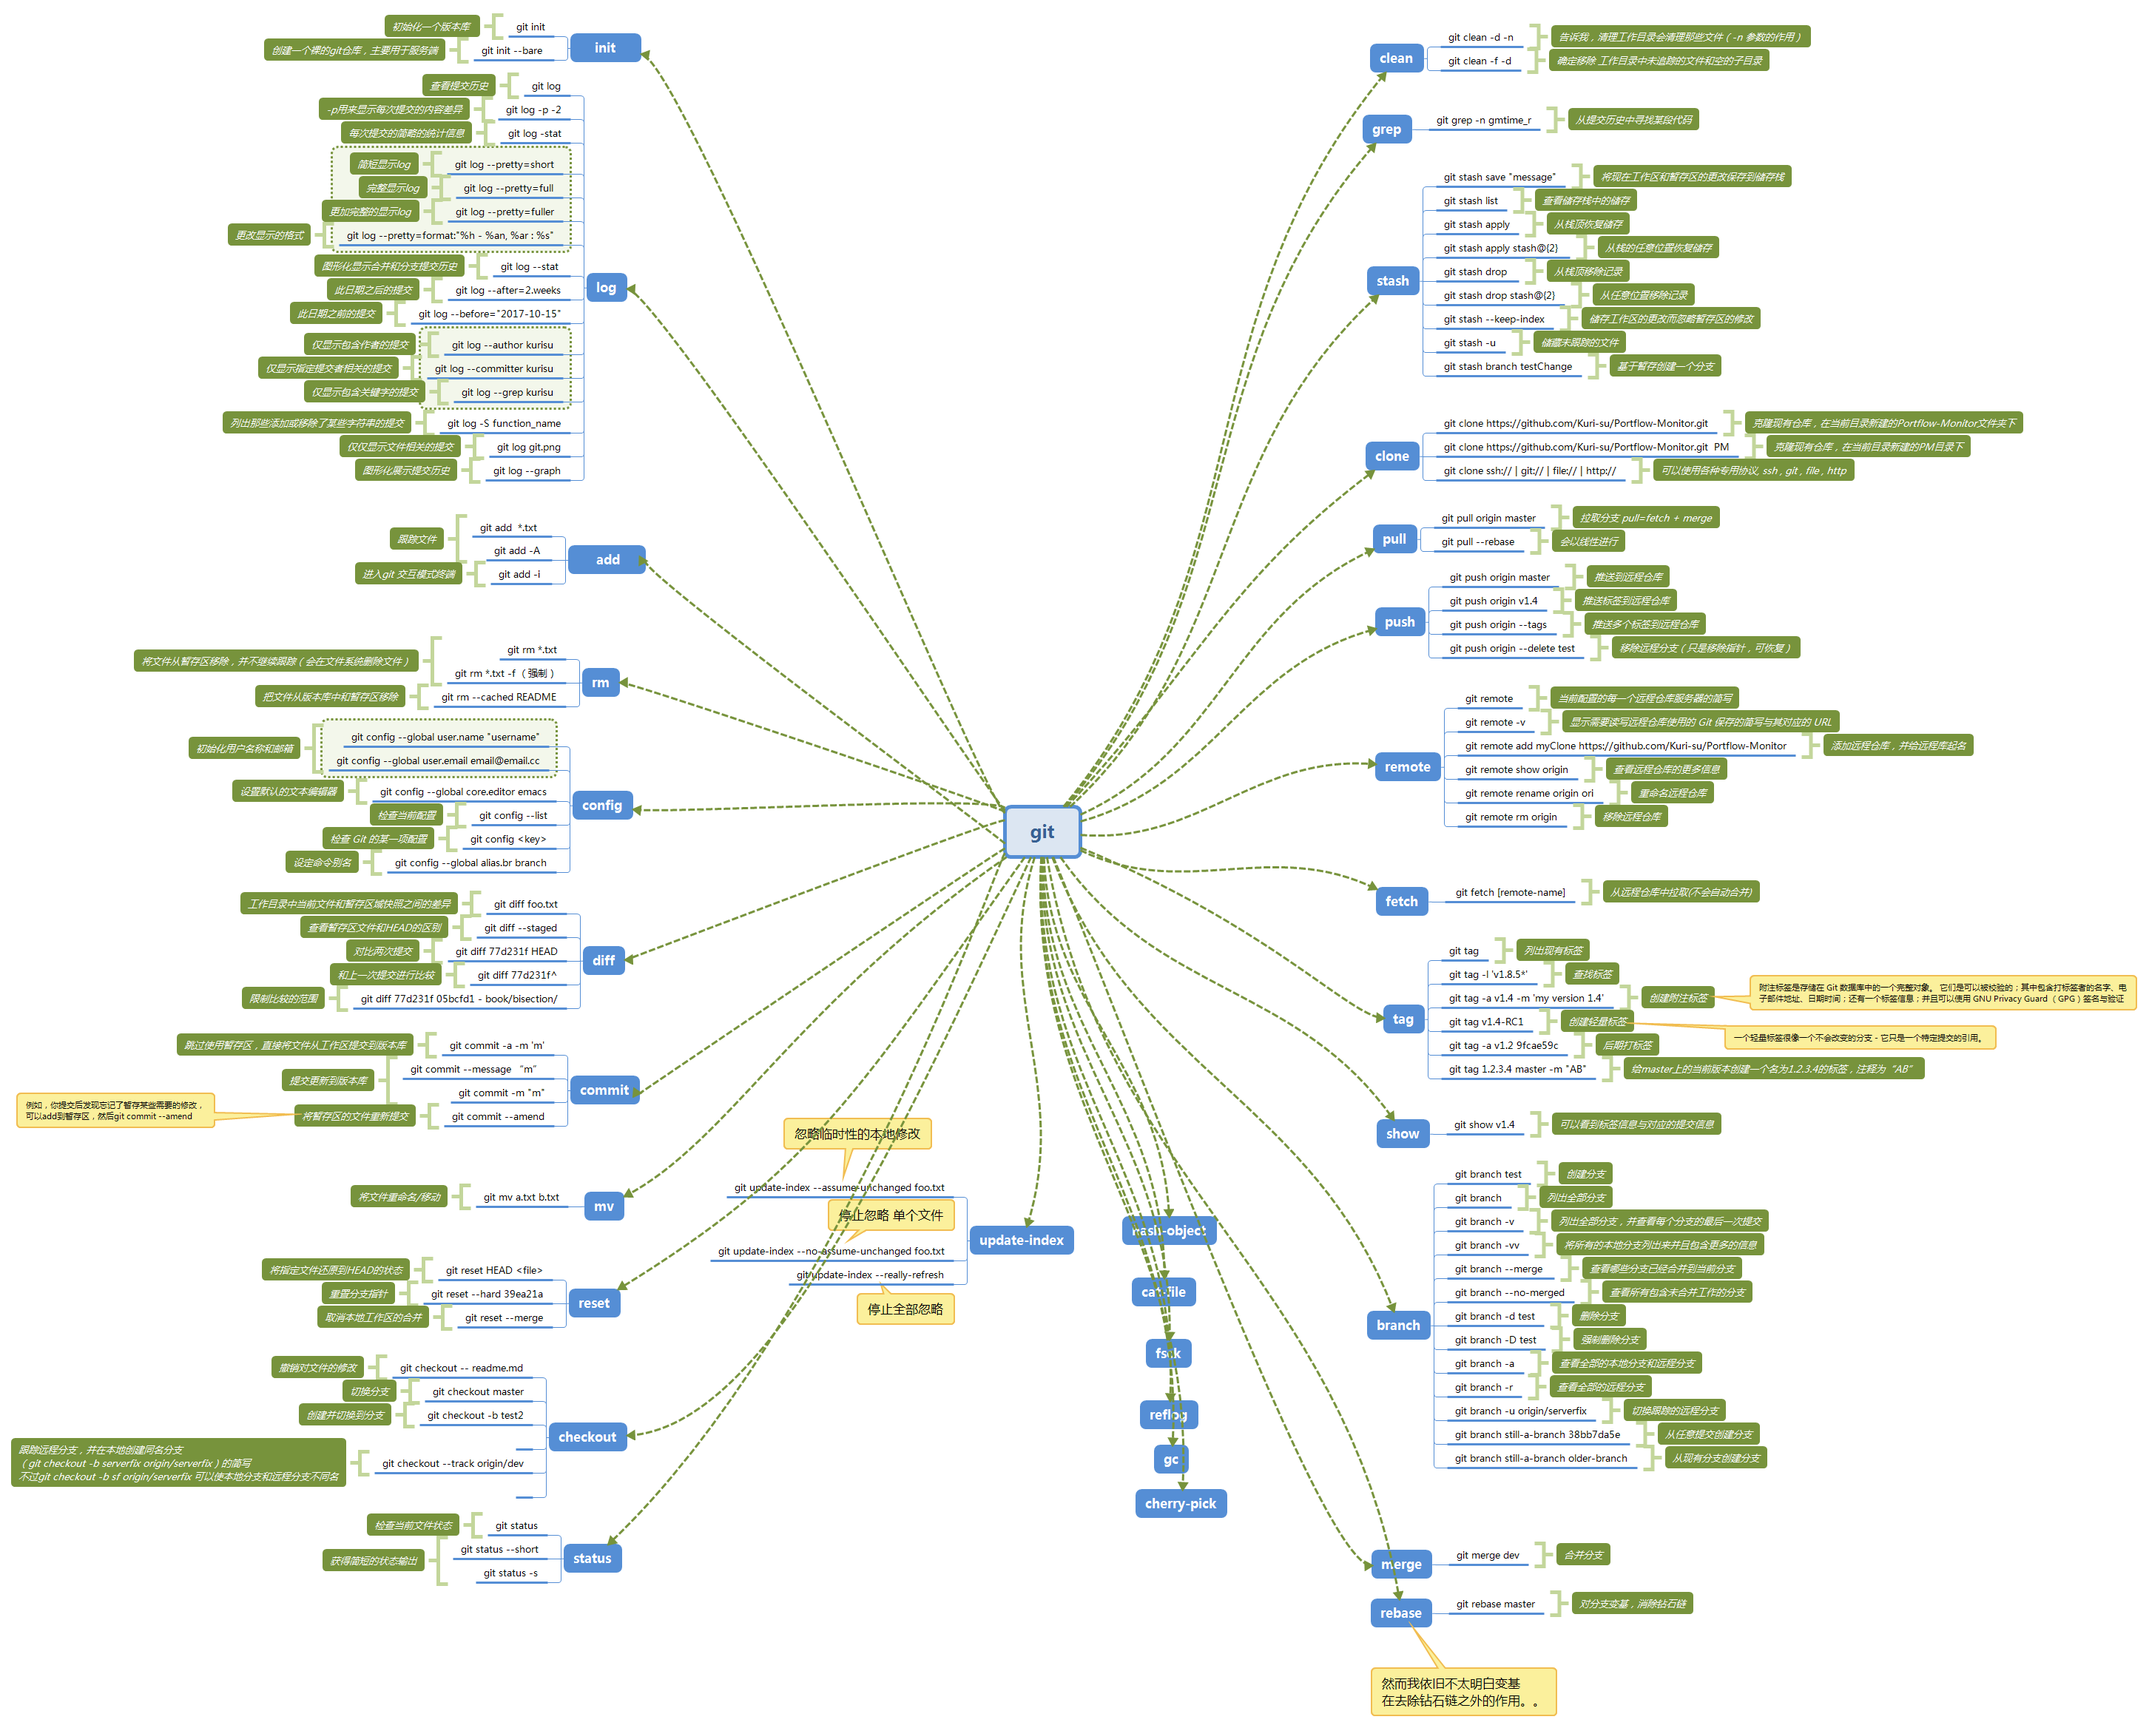
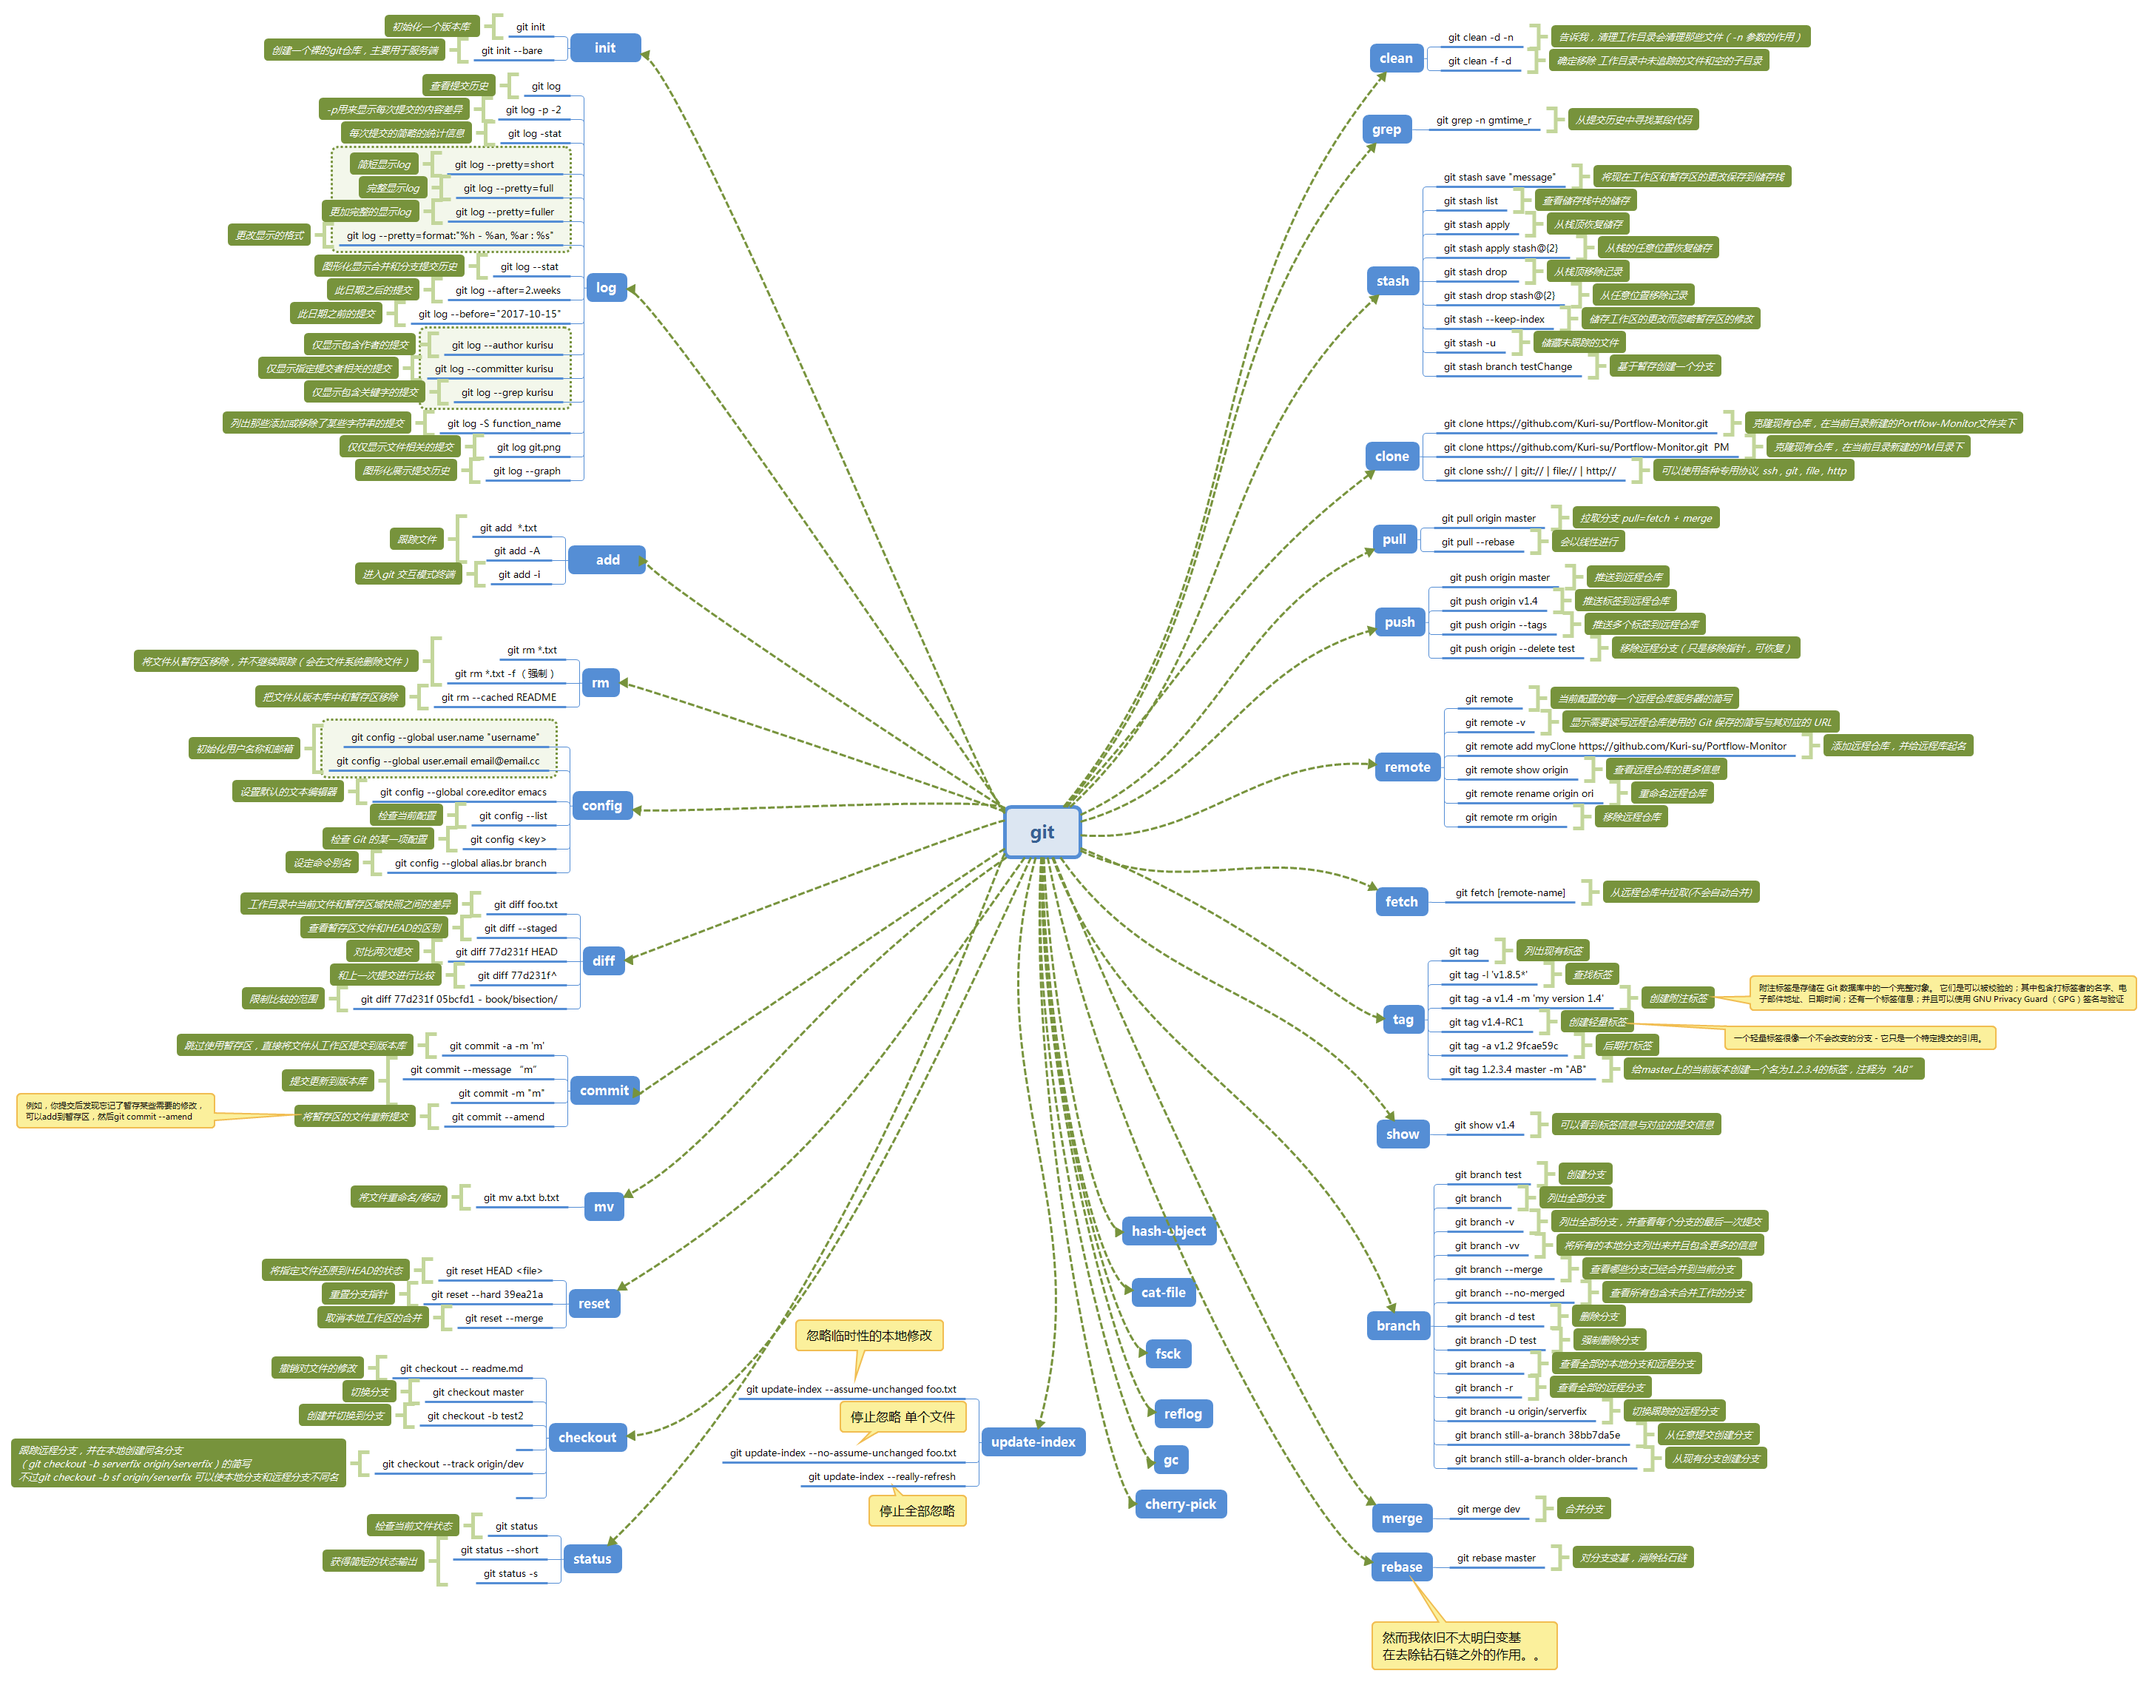
update

diff --git a/README.md b/README.md
@@ -13,8 +13,8 @@
 [原始图](https://raw.githubusercontent.com/Kuri-su/git-mind-Mapping-by-command/master/git.png "pic" )
 
 ## 更新计划：
-* 目前个人觉得看起来有些凌乱，之后有时间的话会将指令分类
-* 目前指令过于偏初级，很多高级指令没有列举出来，可能也与个人水平有关，之后会尽量加强这块，<br>也欢迎觉得这个项目有意思的朋友PR（虽然自己开始觉得没啥意思了XD）
+* 排版有些凌乱，可能会将指令分类
+* 指令过于偏初级，很多高级指令没有列举出来，与个人水平也有关，之后会尽量加强这块，<br>也欢迎觉得这个项目有意思的朋友PR（虽然自己开始觉得没啥意思了XD）
 
 ## LICENSE
 &nbsp;&nbsp;&nbsp;&nbsp;&nbsp;&nbsp;&nbsp;<b>MIT</b>
